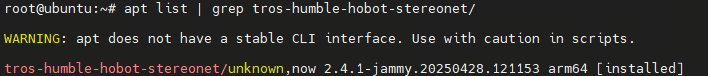
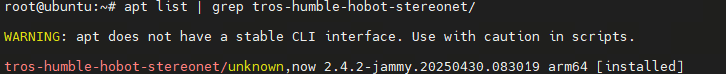
feat(05_Robot_development): update hobot_stereonet(V2.4.2)

diff --git a/i18n/en/docusaurus-plugin-content-docs/current/05_Robot_development/03_boxs/function/hobot_stereonet.md b/i18n/en/docusaurus-plugin-content-docs/current/05_Robot_development/03_boxs/function/hobot_stereonet.md
@@ -49,7 +49,7 @@ cat /etc/version
 
 - If the system version does not meet the requirement, refer to section `1.2` for instructions on flashing the image.
 
-- Additionally, ensure that the `tros-humble-hobot-stereonet` package is at version 2.4.1. Use the following command to check the package version:
+- Additionally, ensure that the `tros-humble-hobot-stereonet` package is at version 2.4.2. Use the following command to check the package version:
 
 ```bash
 apt list | grep tros-humble-hobot-stereonet/
@@ -233,7 +233,7 @@ stereonet_model_file_path:=/opt/tros/humble/share/hobot_stereonet/config/x5basep
 use_local_image:=True local_image_path:=./online_result \
 need_rectify:=False camera_fx:=216.696533 camera_fy:=216.696533 camera_cx:=335.313477 camera_cy:=182.961578 base_line:=0.070943 \
 height_min:=-10.0 height_max:=10.0 pc_max_depth:=5.0 \
-save_image_all:=True save_dir:=./offline_result image_sleep:=500
+save_image_all:=True save_dir:=./offline_result
 ```
 
 </TabItem>
@@ -249,7 +249,7 @@ stereonet_model_file_path:=/opt/tros/humble/share/hobot_stereonet/config/DStereo
 use_local_image:=True local_image_path:=./online_result \
 need_rectify:=False camera_fx:=216.696533 camera_fy:=216.696533 camera_cx:=335.313477 camera_cy:=182.961578 base_line:=0.070943 \
 height_min:=-10.0 height_max:=10.0 pc_max_depth:=5.0 \
-save_image_all:=True save_dir:=./offline_result image_sleep:=500
+save_image_all:=True save_dir:=./offline_result
 ```
 
 </TabItem>
@@ -265,7 +265,7 @@ stereonet_model_file_path:=/opt/tros/humble/share/hobot_stereonet/config/V22_dis
 use_local_image:=True local_image_path:=./online_result \
 need_rectify:=False camera_fx:=216.696533 camera_fy:=216.696533 camera_cx:=335.313477 camera_cy:=182.961578 base_line:=0.070943 \
 height_min:=-10.0 height_max:=10.0 pc_max_depth:=5.0 \
-save_image_all:=True save_dir:=./offline_result image_sleep:=500
+save_image_all:=True save_dir:=./offline_result
 ```
 
 </TabItem>

diff --git a/docs/05_Robot_development/03_boxs/function/hobot_stereonet.md b/docs/05_Robot_development/03_boxs/function/hobot_stereonet.md
@@ -51,7 +51,7 @@ cat /etc/version
 
 - 如果系统版本不符合要求，请参考文档`1.2`章节进行镜像烧录
 
-- 此外，还需要确保`tros-humble-hobot-stereonet`功能包在2.4.1版本，查询功能包版本的命令如下：
+- 此外，还需要确保`tros-humble-hobot-stereonet`功能包在2.4.2版本，查询功能包版本的命令如下：
 
 ```bash
 apt list | grep tros-humble-hobot-stereonet/
@@ -235,7 +235,7 @@ stereonet_model_file_path:=/opt/tros/humble/share/hobot_stereonet/config/x5basep
 use_local_image:=True local_image_path:=./online_result \
 need_rectify:=False camera_fx:=216.696533 camera_fy:=216.696533 camera_cx:=335.313477 camera_cy:=182.961578 base_line:=0.070943 \
 height_min:=-10.0 height_max:=10.0 pc_max_depth:=5.0 \
-save_image_all:=True save_dir:=./offline_result image_sleep:=500
+save_image_all:=True save_dir:=./offline_result
 ```
 
 </TabItem>
@@ -251,7 +251,7 @@ stereonet_model_file_path:=/opt/tros/humble/share/hobot_stereonet/config/DStereo
 use_local_image:=True local_image_path:=./online_result \
 need_rectify:=False camera_fx:=216.696533 camera_fy:=216.696533 camera_cx:=335.313477 camera_cy:=182.961578 base_line:=0.070943 \
 height_min:=-10.0 height_max:=10.0 pc_max_depth:=5.0 \
-save_image_all:=True save_dir:=./offline_result image_sleep:=500
+save_image_all:=True save_dir:=./offline_result
 ```
 
 </TabItem>
@@ -267,7 +267,7 @@ stereonet_model_file_path:=/opt/tros/humble/share/hobot_stereonet/config/V22_dis
 use_local_image:=True local_image_path:=./online_result \
 need_rectify:=False camera_fx:=216.696533 camera_fy:=216.696533 camera_cx:=335.313477 camera_cy:=182.961578 base_line:=0.070943 \
 height_min:=-10.0 height_max:=10.0 pc_max_depth:=5.0 \
-save_image_all:=True save_dir:=./offline_result image_sleep:=500
+save_image_all:=True save_dir:=./offline_result
 ```
 
 </TabItem>
